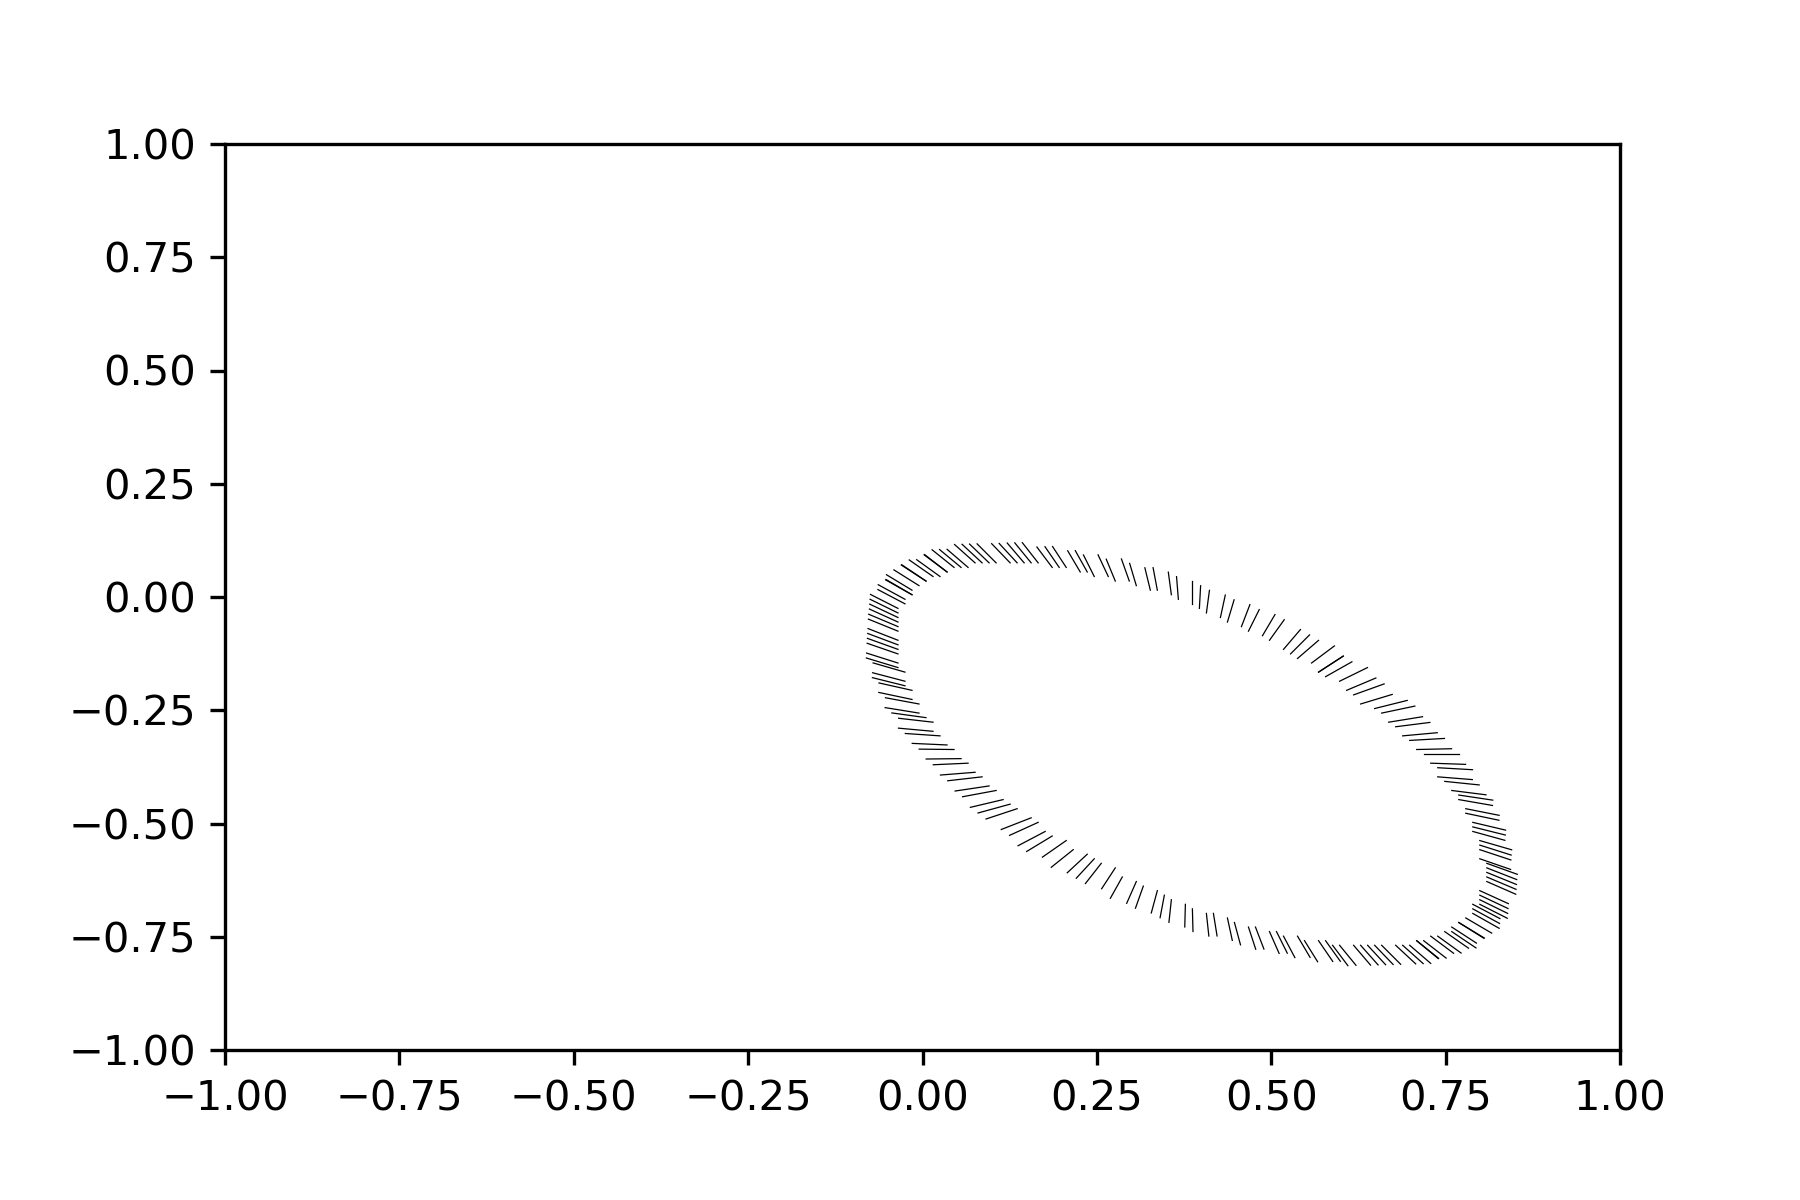
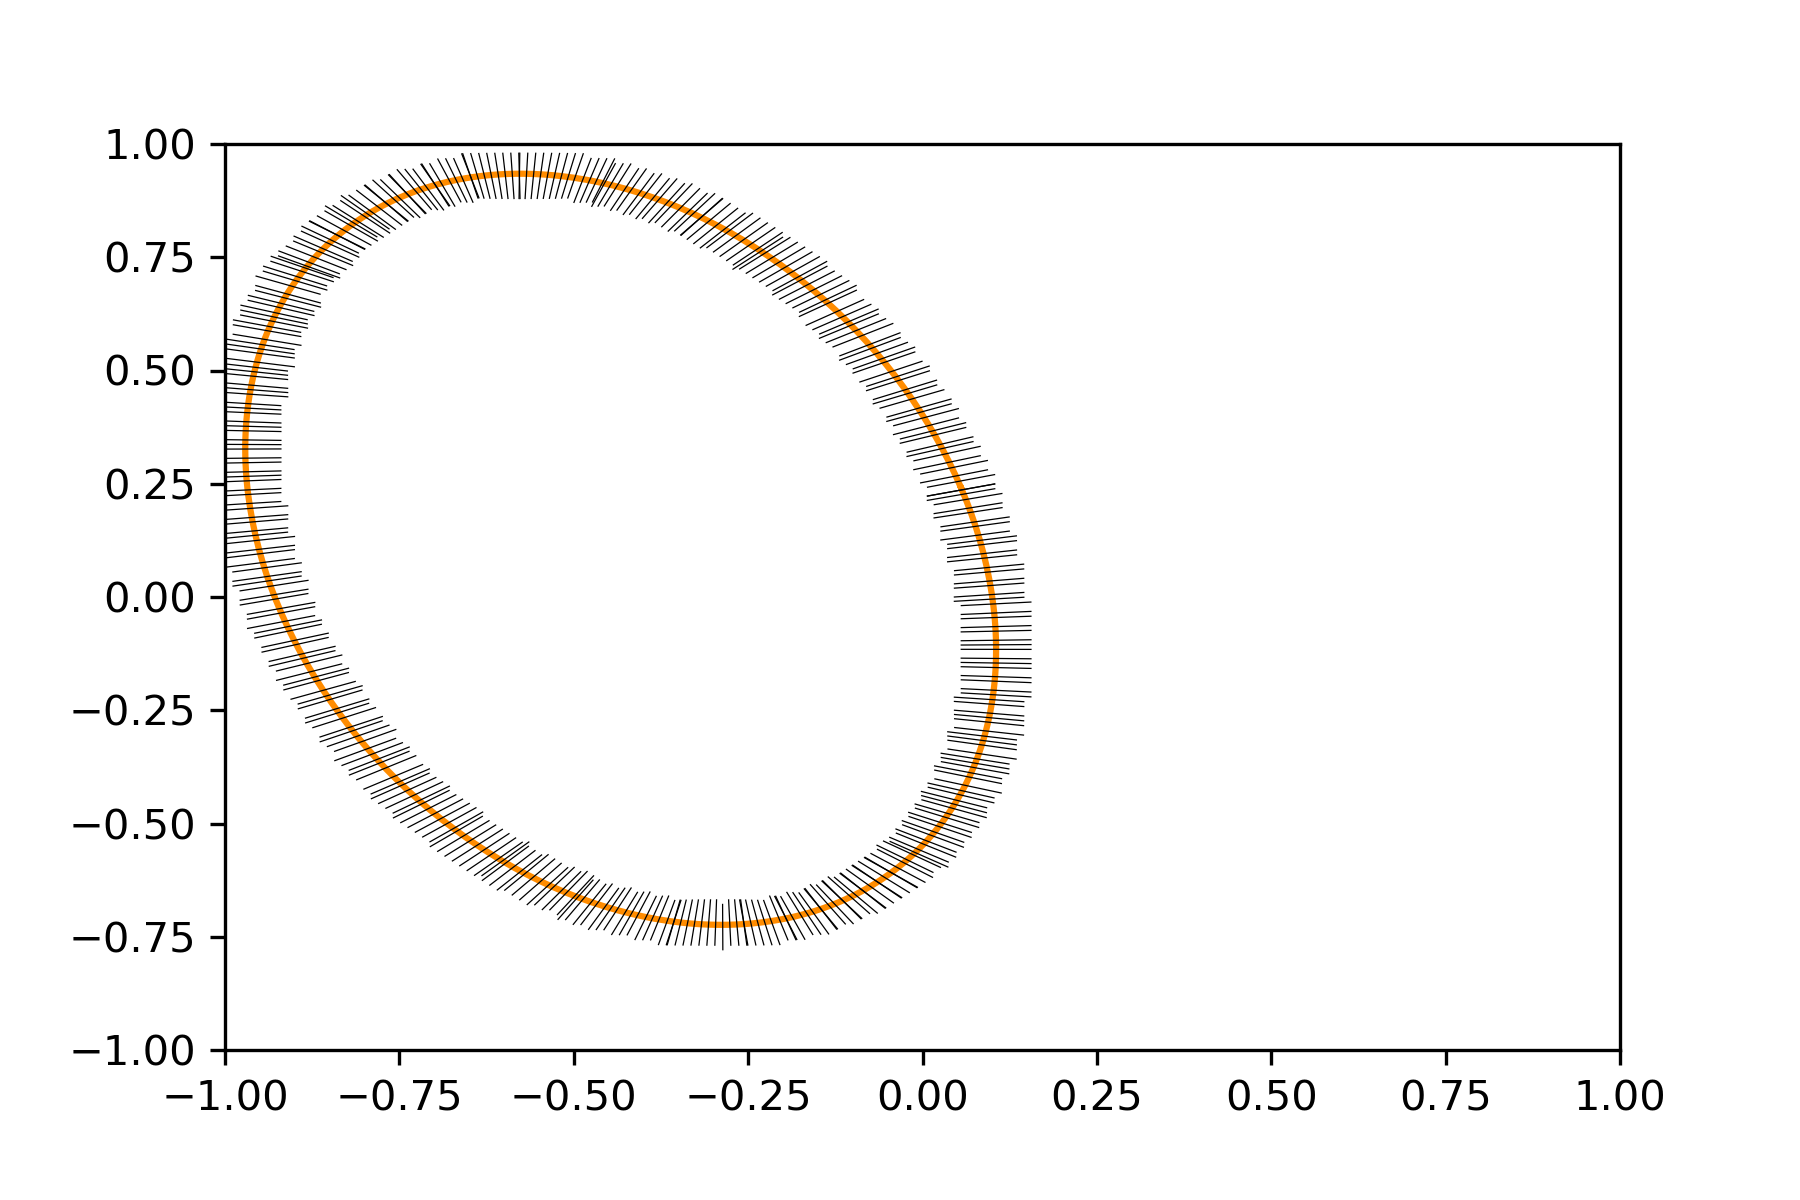
stuff seems to work

diff --git a/shapes.py b/shapes.py
@@ -94,61 +94,6 @@ def drawGrid(grid):
     plt.imshow(grid, origin='lower') 
     plt.show()
 
-def generatePolygon(pointNum, smallestSize=10e-5, niceness=0.1, minRad=0.1, offCenter=True):
-    """
-
-    Parameters
-    ----------
-    pointNum : float
-        desired number of vertices -1
-    smallestSize : float, optional
-        a machine epsilon type thing to stay away from boundaries, optional
-        The default is 10e-5.
-    niceness : float, optional
-        has to do with the spikyness of the polygon, between 0 and pi, doesnt actually prevent spikyness 100% either
-    minRad : float, optional
-        try to stay this far away from boundary and try to let individual edges be at least this large
-    offCenter : bool, optional
-        if generate polygon with non-start-point (0,0). The default is True.
-
-    Returns
-    -------
-    points : array of float pairs
-        pointNum +2 vertices that in this order define the polygon
-        start and end point are the same
-    """
-    phis = []
-    phis.append(np.random.uniform(0, np.pi-niceness))
-    for val in range(pointNum):
-        new = phis[val]+np.random.uniform(niceness/2, np.pi-niceness)
-        if new>2*np.pi:
-            new -= 2*np.pi
-        phis.append(new)
-    phis = np.sort(phis)
-    if offCenter:
-        (x0,y0) =  np.random.uniform(-1+minRad, 1-minRad, 2)
-        points = []
-        for val in range(pointNum):
-            maxRad = 1.0
-            phi = phis[val]
-            if (3/2)*np.pi<phi or phi<(1/2)*np.pi:
-                maxRad = np.min([1,(1-x0)*(np.cos(phi))**(-1)])
-            if (3/2)*np.pi>phi>(1/2)*np.pi:
-                maxRad = np.min([1,-(1+x0)*(np.cos(phi))**(-1)])
-            if 0<phi<np.pi:
-                maxRad = np.min([maxRad, (1-y0)*(np.sin(phi))**(-1)])
-            if np.pi<phi<2*np.pi:
-                maxRad = np.min([maxRad, -(1+y0)*(np.sin(phi))**(-1)])
-            rad = np.random.uniform(np.min([(maxRad-smallestSize)/2,minRad+smallestSize]),maxRad-smallestSize)
-            points.append((x0+rad*(np.cos(phis[val])),y0+rad*(np.sin(phis[val]))))
-        points.insert(0,(x0,y0))
-        points.append((x0,y0))
-    else:
-        rads = np.random.uniform(smallestSize+minRad, 1-smallestSize, pointNum)
-        points = [(rads[val]*np.cos(phis[val]),rads[val]*np.sin(phis[val])) for val in range(pointNum)]
-        points.insert(0,(0,0))
-        points.append((x0,y0))
-    return np.array(points)
 
 def drawPolygon(points, output=True):
     for val in range(len(points)-1):
@@ -164,7 +109,7 @@ def pointToGridIndex(x,y,gridSize):
 def gridIndexToPoint(x,y,gridSize):
     return np.array([2/(gridSize-1)*x-1,2/(gridSize-1)*y-1])
 
-np.random.seed(70)
+np.random.seed(99)
 
 def ellipseToWFsetList(ell,gridSize=200, angleAccuracy=360):
     a = ell.get_width()/2
@@ -180,25 +125,27 @@ def ellipseToWFsetList(ell,gridSize=200, angleAccuracy=360):
     Ell_rot = np.zeros((2,Ell.shape[1]))
     for i in range(Ell.shape[1]):
         Ell_rot[:,i] = r@Ell[:,i]
-    # plt.xlim(-1,1)
-    # plt.ylim(-1,1)
-    # plt.plot(x0+Ell_rot[0,:] , y0+Ell_rot[1,:],'darkorange' )    #rotated ellipse
-    # plt.show()
-    WFSetList = [[point2grid(np.array([x0+Ell_rot[0,j],y0+Ell_rot[1,j]])),[np.round((angle+np.arctan2(1,2*b*(a**(-2))*Ell[0,j]/(np.sqrt(1-(Ell[0,j]/a)**2))))*angleAccuracy/(2*np.pi)).astype(int)%angleAccuracy]] for j in range(angleAccuracy)]
+    plt.xlim(-1,1)
+    plt.ylim(-1,1)
+    plt.plot(x0+Ell_rot[0,:] , y0+Ell_rot[1,:],'darkorange' )    #rotated ellipse
+    # WFSetList = [[point2grid(np.array([x0+Ell_rot[0,j],y0+Ell_rot[1,j]])),[np.round((angle+np.arctan2(1,2*b*(a**(-2))*Ell[0,j]/(np.sqrt(1-(Ell[0,j]/a)**2))))*angleAccuracy/(2*np.pi)).astype(int)%angleAccuracy]] for j in range(angleAccuracy)]
     # x = np.linspace(-a, a, gridSize*2,endpoint=True)
     # yPlus = [b*np.sqrt(1-a**(-2)*(val**2))+y0 for val in x]
     # yMinus = [-b*np.sqrt(1-a**(-2)*(val**2))+y0 for val in x]
     #we allow the below things to divide by zero because
     #arctan2 can handle when one of the parameters is infinity
     #but I dont want to have to see the warnings so I supress them
-    # with warnings.catch_warnings():
-    #     warnings.simplefilter("ignore")
-    #     anglesPlus = [np.round((np.arctan2(1,2*b*(a**(-2))*val/(np.sqrt(1-(val/a)**2))))*angleAccuracy/(2*np.pi)).astype(int)%angleAccuracy for val in x]
-    #     anglesMinus = [np.round((np.arctan2(-1,2*b*(a**(-2))*val/(np.sqrt(1-(val/a)**2))))*angleAccuracy/(2*np.pi)).astype(int)%angleAccuracy for val in x]
+    with warnings.catch_warnings():
+        warnings.simplefilter("ignore")
+        #anglesPlus = [j+np.rad2deg(angle) for j in range(angleAccuracy)]
+        anglesOther2 = [np.rad2deg(angle+np.arctan(np.tan(j)*a/b)) for j in np.linspace(0, 2*np.pi, angleAccuracy)]
+        #anglesOther = [np.rad2deg(angle+np.arctan2(Ell[1,j]/(b**2),Ell[0,j]/(a**2))) for j in range(angleAccuracy)]
+        #anglesPlus = [np.round((angle+np.arctan2(1,2*b*(a**(-2))*Ell[0,j]/(np.sqrt(1-(Ell[0,j]/a)**2))))*angleAccuracy/(2*np.pi)).astype(int)%angleAccuracy for j in range(angleAccuracy//2)]
+        #anglesPlus.extend([np.round((angle+np.arctan2(-1,2*b*(a**(-2))*Ell[0,j]/(np.sqrt(1-(Ell[0,j]/a)**2))))*angleAccuracy/(2*np.pi)).astype(int)%angleAccuracy for j in range(angleAccuracy//2,angleAccuracy)])
     # xnew = [x0+val for val in x]
 
-    # WFSetList = [[pointToGridIndex(xnew[val],yPlus[val],gridSize),[anglesPlus[val]]] for val in range(len(x))]
-    # WFSetList.extend([[pointToGridIndex(xnew[val],yMinus[val],gridSize),[anglesMinus[val]]] for val in range(len(x))])
+    WFSetList = [[point2grid(np.array([x0+Ell_rot[0,j],y0+Ell_rot[1,j]])),[anglesOther2[j]]] for j in range(angleAccuracy)]
+    #WFSetList.extend([[point2grid(np.array([x0+Ell_rot[0,j],y0+Ell_rot[1,j]])),[anglesMinus[val]]] for j in range(angleAccuracy//2,angleAccuracy)]
     
     return WFSetList
 
@@ -262,7 +209,7 @@ def drawWFSetList(WFSetList,gridSize=200, saveFile=True):
             #to plot the WFset we just make small lines in the correct direction
             #at the point
             vec = [0.05*np.cos((2*np.pi*angle/360)), 0.05*np.sin((2*np.pi*angle/360))]
-            plt.plot([point[0],point[0]+vec[0]],[point[1],point[1]+vec[1]],color='black',linewidth=0.3)
+            plt.plot([point[0]-vec[0],point[0]+vec[0]],[point[1]-vec[1],point[1]+vec[1]],color='black',linewidth=0.3)
     plt.xlim(-1,1)
     plt.ylim(-1,1)
     if saveFile:
@@ -331,13 +278,6 @@ def fullPolygonRoutineTimer(polySize=5, gridSize=200,angleAccuracy=360):
     drawWFSetList(WFSetList, gridSize=gridSize, saveFile=False)
     toc = time.perf_counter()
     print(f"Plotting polygon with wavefrontset picture took {toc - tic:0.4f} seconds")
-    
-    #This is the old method that is one order of magnitude smaller than the 
-    #new method, used below
-    # tic = time.perf_counter()
-    # grid1 = constructImageInGridOfPolygon(poly, gridSize=gridSize)
-    # toc = time.perf_counter()
-    # print(f"Get inside of polygon as grid old way took {toc - tic:0.4f} seconds")
 
     tic = time.perf_counter()
     grid = gridFromPolygon(poly, gridSize=gridSize)
@@ -358,13 +298,13 @@ def fullEllipseRoutineTimer(gridSize = 200, angleAccuracy=360):
     print(f"Ellipse generation took {toc - tic:0.4f} seconds")
 
     tic = time.perf_counter()
-    WFSetList = ellipseToWFsetList(ell, gridSize=gridSize, angleAccuracy=angleAccuracy)
+    WFSetList = ellipseToWFsetList(ell, gridSize=gridSize, angleAccuracy=360)
     toc = time.perf_counter()
     print(f"Wavefrontset calculation took {toc - tic:0.4f} seconds")
 
     tic = time.perf_counter()
     #plotEll(ell, output=False)
-    drawWFSetList(WFSetList, gridSize=gridSize, saveFile=False)
+    drawWFSetList(WFSetList, gridSize=gridSize, saveFile=True)
     toc = time.perf_counter()
     print(f"Plotting ellipse with wavefrontset picture took {toc - tic:0.4f} seconds")
     
@@ -374,8 +314,8 @@ def fullEllipseRoutineTimer(gridSize = 200, angleAccuracy=360):
     print(f"Get inside of ellipse as grid took {toc - tic:0.4f} seconds")
 
     tic = time.perf_counter()
-    #plt.imshow(grid)
-    #plt.show()
+    # plt.imshow(grid)
+    # plt.show()
     toc = time.perf_counter()
     print(f"Drawing the grid of polygon took {toc - tic:0.4f} seconds\n")
 

diff --git a/oldStuff.py b/oldStuff.py
@@ -475,3 +475,40 @@ def gridEll(ell, gridSize=200):
 #             if checkIfPointInEllipse(point,ell):
 #                 listOfPoints.append(point)
 #     return listOfPoints
+
+def ellipseToWFsetList(ell,gridSize=200, angleAccuracy=360):
+    a = ell.get_width()/2
+    b = ell.get_height()/2
+    x0,y0 = ell.get_center()
+    angle = np.deg2rad(ell.get_angle())
+    t = np.linspace(0, 2*np.pi, angleAccuracy)
+    Ell = np.array([a*np.cos(t), b*np.sin(t)])  
+    
+    r = rot(angle)
+    #2-D rotation matrix
+
+    Ell_rot = np.zeros((2,Ell.shape[1]))
+    for i in range(Ell.shape[1]):
+        Ell_rot[:,i] = r@Ell[:,i]
+    plt.xlim(-1,1)
+    plt.ylim(-20,20)
+    plt.plot(x0+Ell_rot[0,:] , y0+Ell_rot[1,:],'darkorange' )    #rotated ellipse
+    # WFSetList = [[point2grid(np.array([x0+Ell_rot[0,j],y0+Ell_rot[1,j]])),[np.round((angle+np.arctan2(1,2*b*(a**(-2))*Ell[0,j]/(np.sqrt(1-(Ell[0,j]/a)**2))))*angleAccuracy/(2*np.pi)).astype(int)%angleAccuracy]] for j in range(angleAccuracy)]
+    # x = np.linspace(-a, a, gridSize*2,endpoint=True)
+    # yPlus = [b*np.sqrt(1-a**(-2)*(val**2))+y0 for val in x]
+    # yMinus = [-b*np.sqrt(1-a**(-2)*(val**2))+y0 for val in x]
+    #we allow the below things to divide by zero because
+    #arctan2 can handle when one of the parameters is infinity
+    #but I dont want to have to see the warnings so I supress them
+    with warnings.catch_warnings():
+        warnings.simplefilter("ignore")
+        anglesPlus = [j+np.rad2deg(angle) for j in range(angleAccuracy)]
+        anglesOther = [np.rad2deg(angle+np.arctan(a*np.tan(j)/b)) for j in range(angleAccuracy)]
+        #anglesPlus = [np.round((angle+np.arctan2(1,2*b*(a**(-2))*Ell[0,j]/(np.sqrt(1-(Ell[0,j]/a)**2))))*angleAccuracy/(2*np.pi)).astype(int)%angleAccuracy for j in range(angleAccuracy//2)]
+        #anglesPlus.extend([np.round((angle+np.arctan2(-1,2*b*(a**(-2))*Ell[0,j]/(np.sqrt(1-(Ell[0,j]/a)**2))))*angleAccuracy/(2*np.pi)).astype(int)%angleAccuracy for j in range(angleAccuracy//2,angleAccuracy)])
+    # xnew = [x0+val for val in x]
+
+    WFSetList = [[point2grid(np.array([x0+Ell_rot[0,j],y0+Ell_rot[1,j]])),[anglesOther[j]]] for j in range(angleAccuracy)]
+    #WFSetList.extend([[point2grid(np.array([x0+Ell_rot[0,j],y0+Ell_rot[1,j]])),[anglesMinus[val]]] for j in range(angleAccuracy//2,angleAccuracy)]
+    
+    return WFSetList
